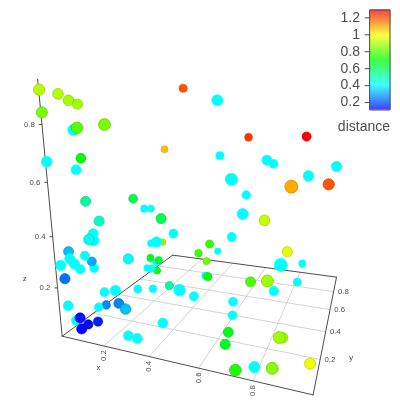
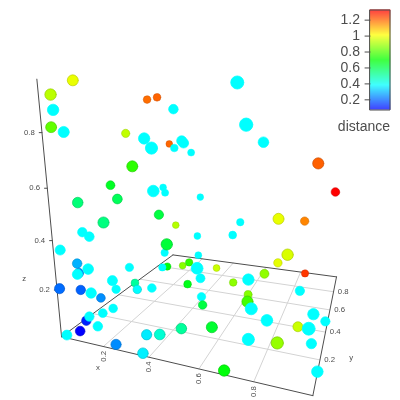
chore: update to 886faa7e27e4ba90d6ebe8fa363f04cf5bddd1bf [ci skip]

diff --git a/esnext/esm/vis-graph3d.js b/esnext/esm/vis-graph3d.js
@@ -5,7 +5,7 @@
  * Create interactive, animated 3d graphs. Surfaces, lines, dots and block styling out of the box.
  *
  * @version 0.0.0-no-version
- * @date    2026-07-13T22:10:47.294Z
+ * @date    2026-07-14T02:51:27.890Z
  *
  * @copyright (c) 2011-2017 Almende B.V, http://almende.com
  * @copyright (c) 2017-2019 visjs contributors, https://github.com/visjs

diff --git a/esnext/esm/vis-graph3d.min.js b/esnext/esm/vis-graph3d.min.js
@@ -5,7 +5,7 @@
  * Create interactive, animated 3d graphs. Surfaces, lines, dots and block styling out of the box.
  *
  * @version 0.0.0-no-version
- * @date    2026-07-13T22:10:47.294Z
+ * @date    2026-07-14T02:51:27.890Z
  *
  * @copyright (c) 2011-2017 Almende B.V, http://almende.com
  * @copyright (c) 2017-2019 visjs contributors, https://github.com/visjs

diff --git a/esnext/umd/vis-graph3d.js b/esnext/umd/vis-graph3d.js
@@ -5,7 +5,7 @@
  * Create interactive, animated 3d graphs. Surfaces, lines, dots and block styling out of the box.
  *
  * @version 0.0.0-no-version
- * @date    2026-07-13T22:10:47.294Z
+ * @date    2026-07-14T02:51:27.890Z
  *
  * @copyright (c) 2011-2017 Almende B.V, http://almende.com
  * @copyright (c) 2017-2019 visjs contributors, https://github.com/visjs

diff --git a/esnext/umd/vis-graph3d.min.js b/esnext/umd/vis-graph3d.min.js
@@ -5,7 +5,7 @@
  * Create interactive, animated 3d graphs. Surfaces, lines, dots and block styling out of the box.
  *
  * @version 0.0.0-no-version
- * @date    2026-07-13T22:10:47.294Z
+ * @date    2026-07-14T02:51:27.890Z
  *
  * @copyright (c) 2011-2017 Almende B.V, http://almende.com
  * @copyright (c) 2017-2019 visjs contributors, https://github.com/visjs

diff --git a/peer/esm/vis-graph3d.js b/peer/esm/vis-graph3d.js
@@ -5,7 +5,7 @@
  * Create interactive, animated 3d graphs. Surfaces, lines, dots and block styling out of the box.
  *
  * @version 0.0.0-no-version
- * @date    2026-07-13T22:10:47.294Z
+ * @date    2026-07-14T02:51:27.890Z
  *
  * @copyright (c) 2011-2017 Almende B.V, http://almende.com
  * @copyright (c) 2017-2019 visjs contributors, https://github.com/visjs

diff --git a/peer/esm/vis-graph3d.min.js b/peer/esm/vis-graph3d.min.js
@@ -5,7 +5,7 @@
  * Create interactive, animated 3d graphs. Surfaces, lines, dots and block styling out of the box.
  *
  * @version 0.0.0-no-version
- * @date    2026-07-13T22:10:47.294Z
+ * @date    2026-07-14T02:51:27.890Z
  *
  * @copyright (c) 2011-2017 Almende B.V, http://almende.com
  * @copyright (c) 2017-2019 visjs contributors, https://github.com/visjs

diff --git a/peer/umd/vis-graph3d.js b/peer/umd/vis-graph3d.js
@@ -5,7 +5,7 @@
  * Create interactive, animated 3d graphs. Surfaces, lines, dots and block styling out of the box.
  *
  * @version 0.0.0-no-version
- * @date    2026-07-13T22:10:47.294Z
+ * @date    2026-07-14T02:51:27.890Z
  *
  * @copyright (c) 2011-2017 Almende B.V, http://almende.com
  * @copyright (c) 2017-2019 visjs contributors, https://github.com/visjs

diff --git a/peer/umd/vis-graph3d.min.js b/peer/umd/vis-graph3d.min.js
@@ -5,7 +5,7 @@
  * Create interactive, animated 3d graphs. Surfaces, lines, dots and block styling out of the box.
  *
  * @version 0.0.0-no-version
- * @date    2026-07-13T22:10:47.294Z
+ * @date    2026-07-14T02:51:27.890Z
  *
  * @copyright (c) 2011-2017 Almende B.V, http://almende.com
  * @copyright (c) 2017-2019 visjs contributors, https://github.com/visjs

diff --git a/standalone/esm/vis-graph3d.js b/standalone/esm/vis-graph3d.js
@@ -5,7 +5,7 @@
  * Create interactive, animated 3d graphs. Surfaces, lines, dots and block styling out of the box.
  *
  * @version 0.0.0-no-version
- * @date    2026-07-13T22:10:47.294Z
+ * @date    2026-07-14T02:51:27.890Z
  *
  * @copyright (c) 2011-2017 Almende B.V, http://almende.com
  * @copyright (c) 2017-2019 visjs contributors, https://github.com/visjs

diff --git a/standalone/esm/vis-graph3d.min.js b/standalone/esm/vis-graph3d.min.js
@@ -5,7 +5,7 @@
  * Create interactive, animated 3d graphs. Surfaces, lines, dots and block styling out of the box.
  *
  * @version 0.0.0-no-version
- * @date    2026-07-13T22:10:47.294Z
+ * @date    2026-07-14T02:51:27.890Z
  *
  * @copyright (c) 2011-2017 Almende B.V, http://almende.com
  * @copyright (c) 2017-2019 visjs contributors, https://github.com/visjs

diff --git a/standalone/umd/vis-graph3d.js b/standalone/umd/vis-graph3d.js
@@ -5,7 +5,7 @@
  * Create interactive, animated 3d graphs. Surfaces, lines, dots and block styling out of the box.
  *
  * @version 0.0.0-no-version
- * @date    2026-07-13T22:10:47.294Z
+ * @date    2026-07-14T02:51:27.890Z
  *
  * @copyright (c) 2011-2017 Almende B.V, http://almende.com
  * @copyright (c) 2017-2019 visjs contributors, https://github.com/visjs

diff --git a/standalone/umd/vis-graph3d.min.js b/standalone/umd/vis-graph3d.min.js
@@ -5,7 +5,7 @@
  * Create interactive, animated 3d graphs. Surfaces, lines, dots and block styling out of the box.
  *
  * @version 0.0.0-no-version
- * @date    2026-07-13T22:10:47.294Z
+ * @date    2026-07-14T02:51:27.890Z
  *
  * @copyright (c) 2011-2017 Almende B.V, http://almende.com
  * @copyright (c) 2017-2019 visjs contributors, https://github.com/visjs